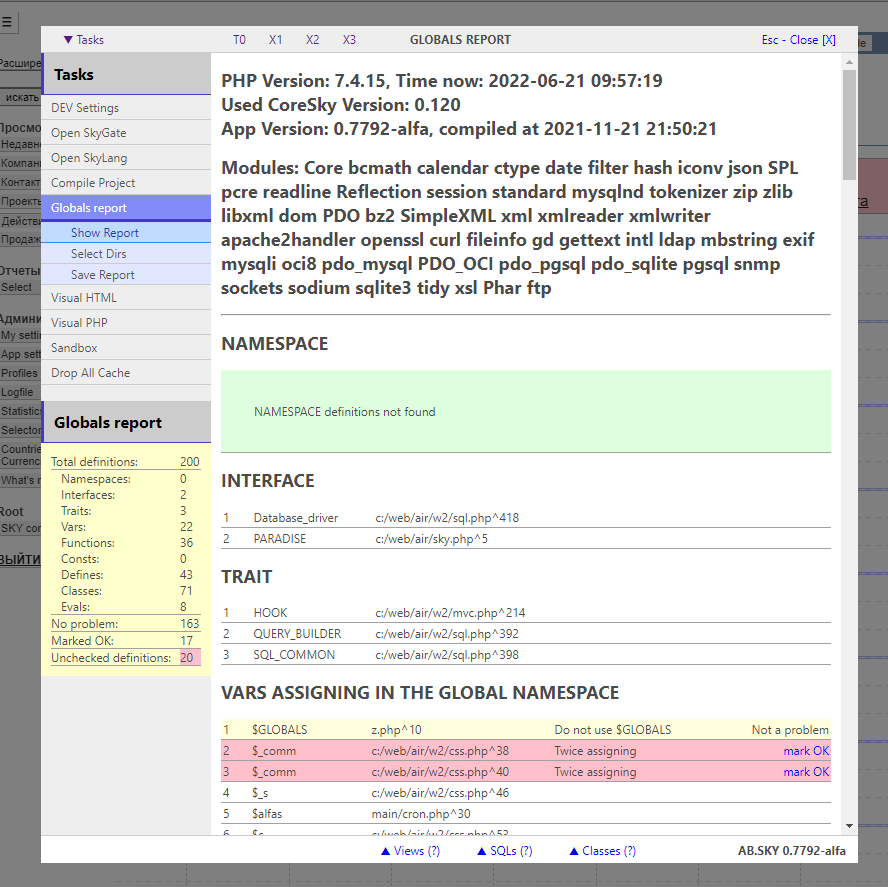
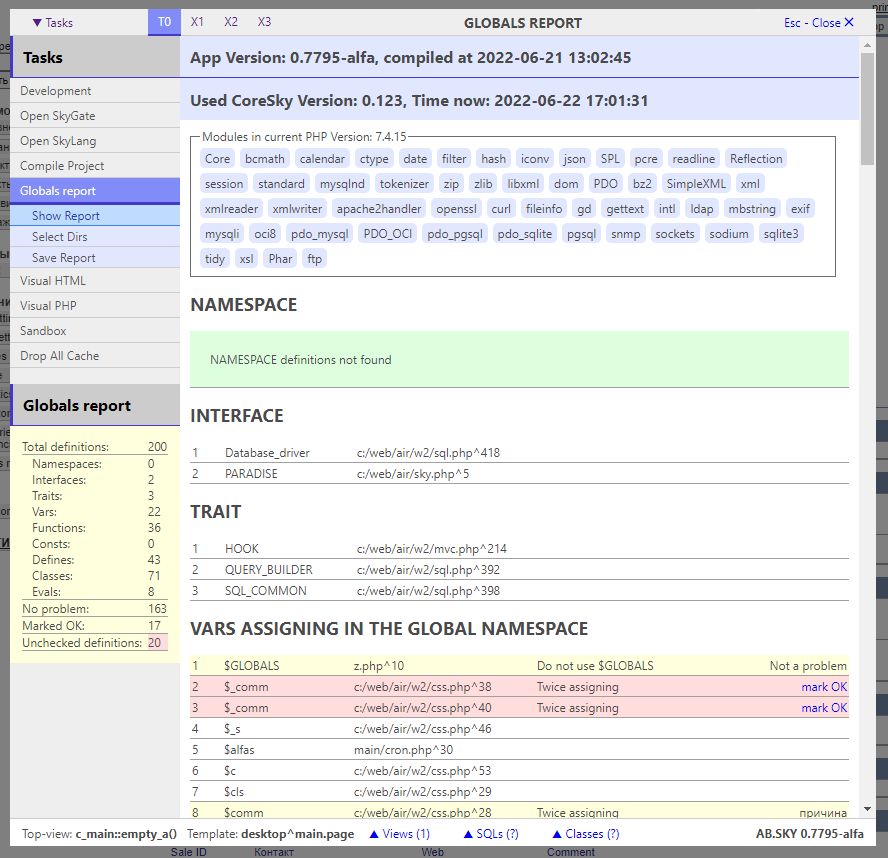
img changed

diff --git a/assets/dev.css b/assets/dev.css
@@ -216,5 +216,17 @@ td {
     display: inline-flex;
     align-items: center;
 }
+#gr-modules {
+    margin-top:8px;
+    padding-bottom:3px;
+}
+#gr-modules span {
+    display: inline-block;
+    background:#e0e7ff;
+    margin:0 5px 5px 0;
+    padding:2px 5px;
+    border-radius: 5px;
+}
+
 
 

diff --git a/w2/globals.php b/w2/globals.php
@@ -292,7 +292,9 @@ class Globals
                     ];
                 },
             ],
-            'modules' => implode(' ', get_loaded_extensions()),
+            'modules' => array_map(function ($v) {
+                return '<span>' . $v . '</span>';
+            }, get_loaded_extensions()),
             'cnt' => $this->cnt,
         ];
     }
